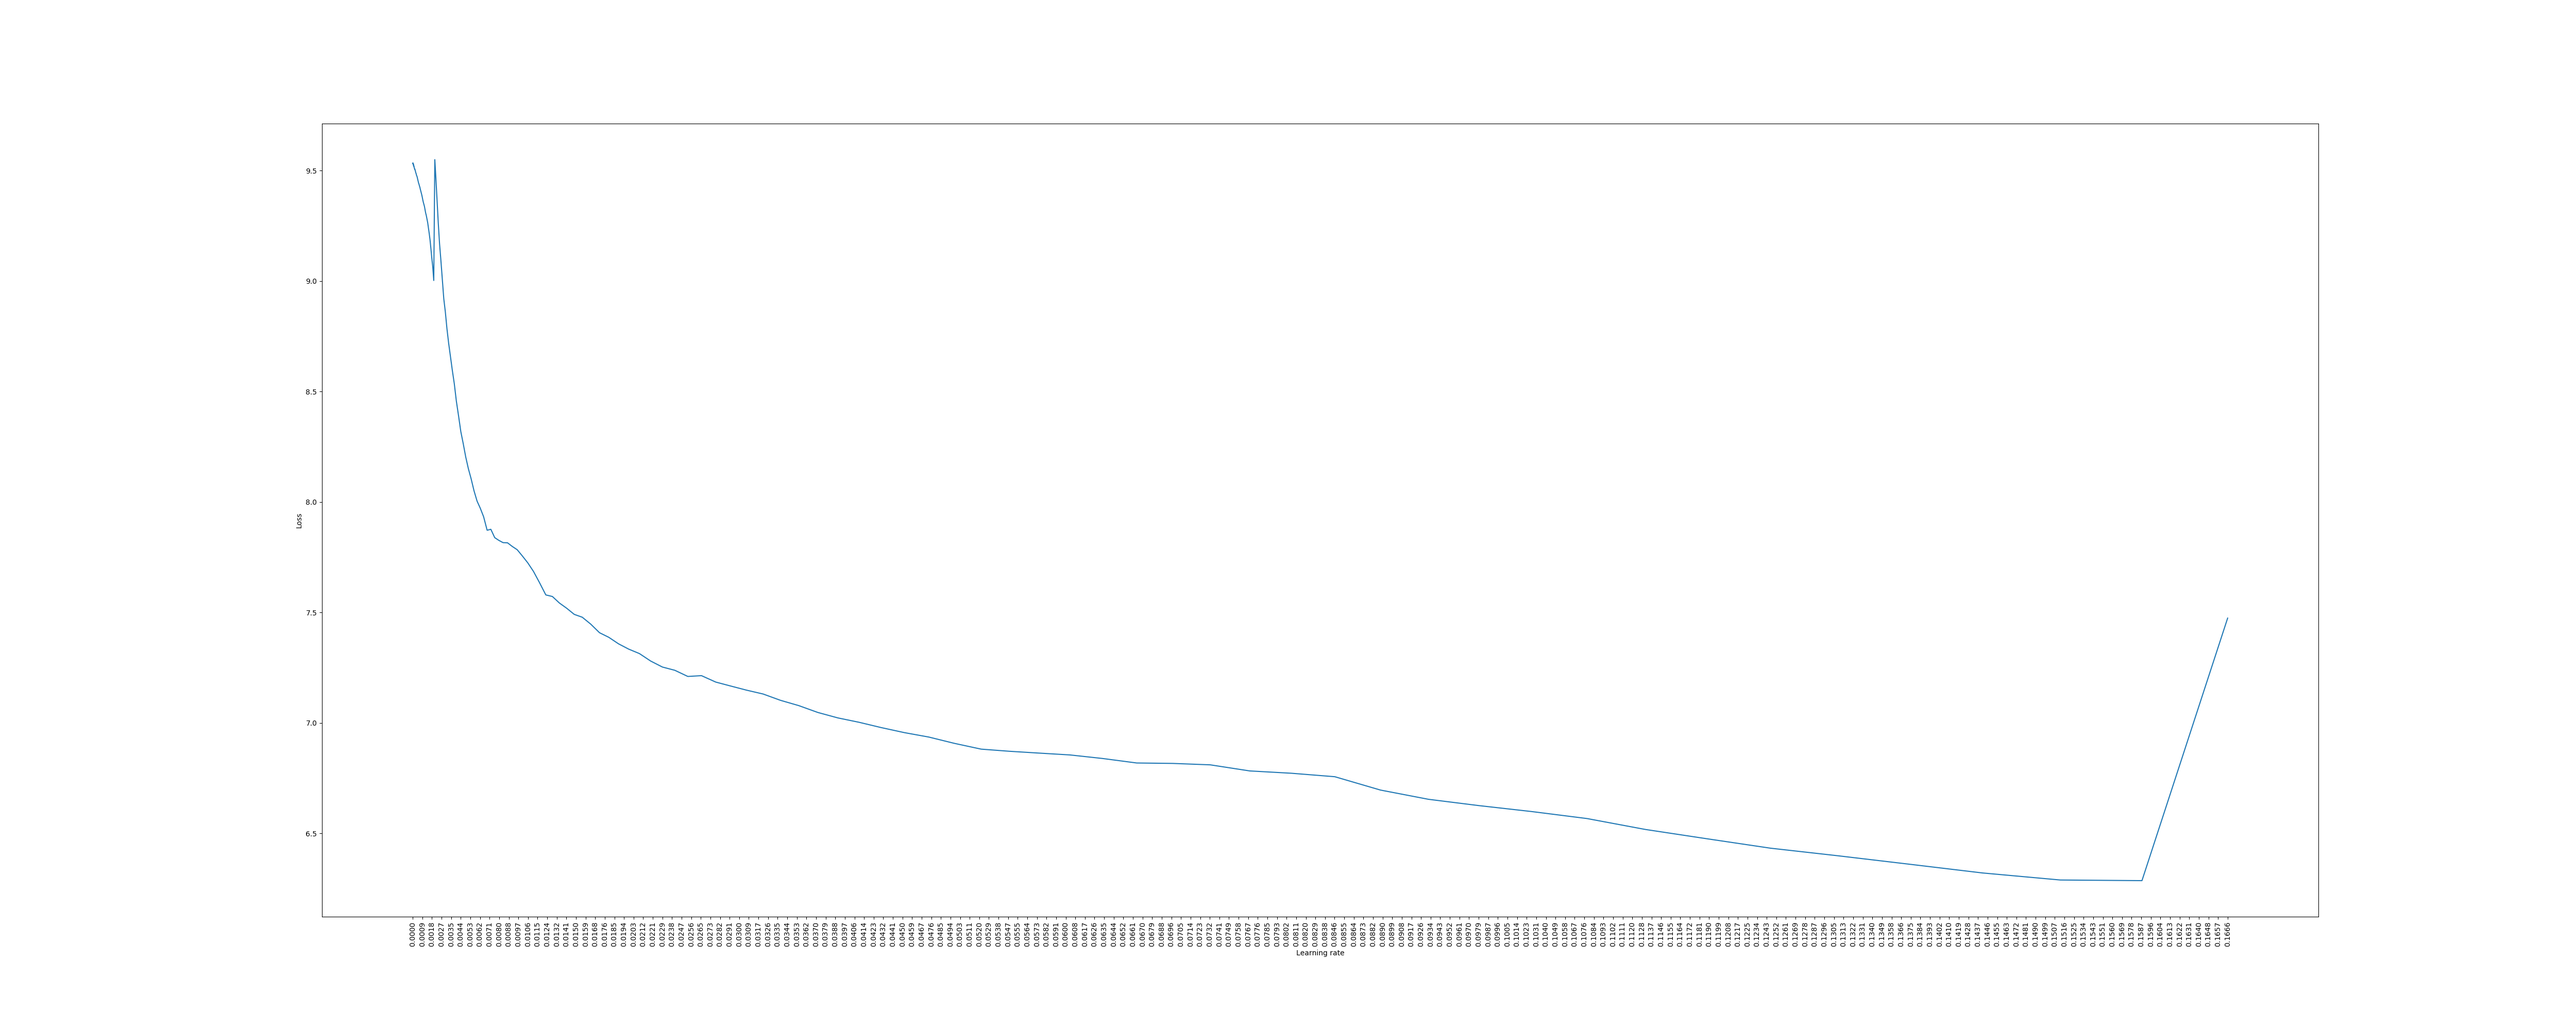
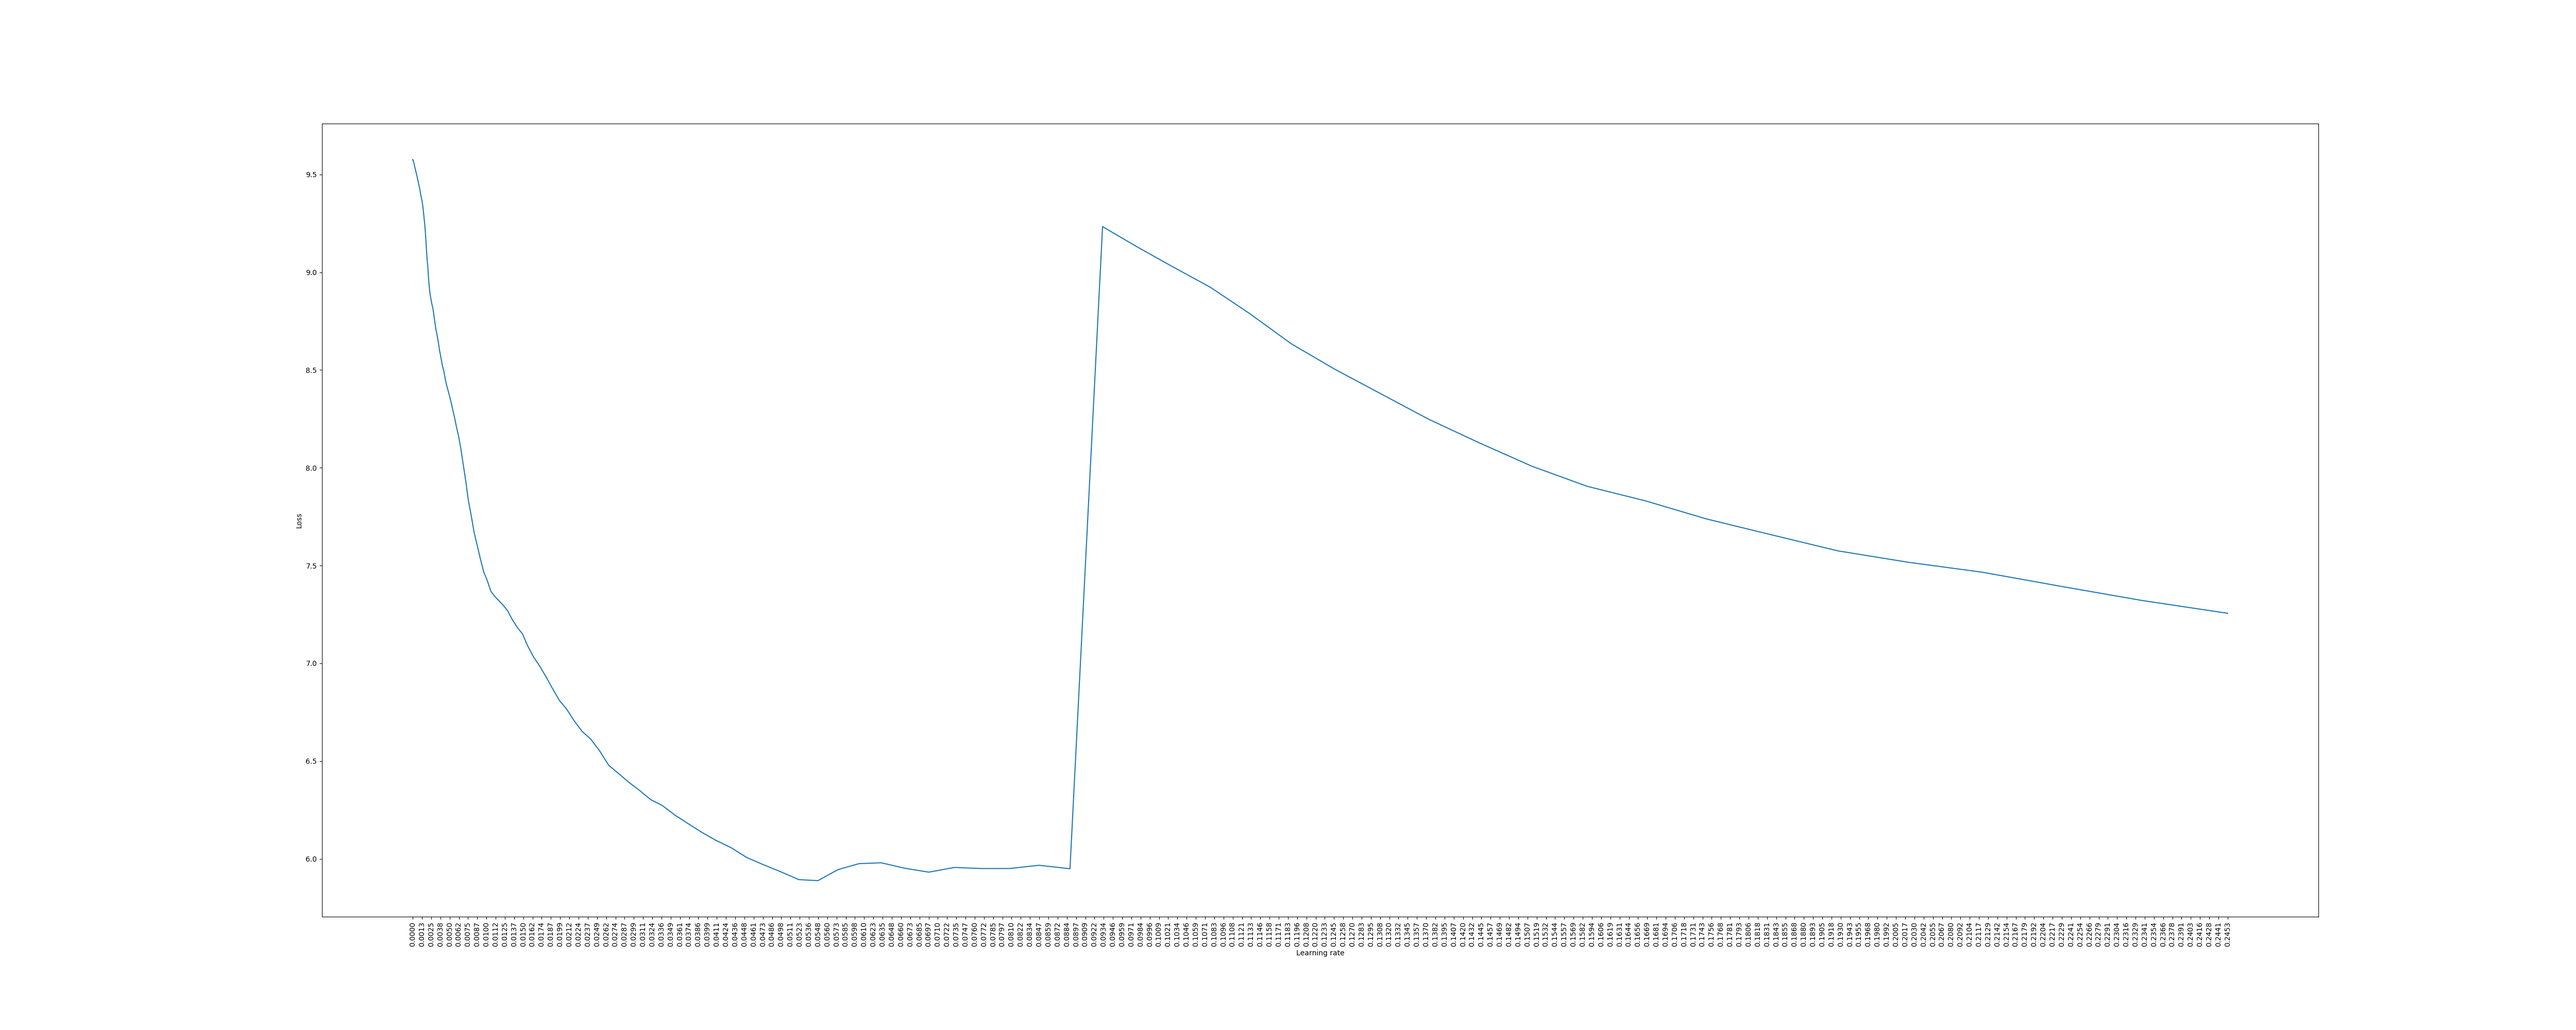
updates

Changed region(s): [[0.156, 0.899, 0.8736, 0.93]]

diff --git a/ttfnet.py b/ttfnet.py
@@ -4,9 +4,10 @@ from detector_utils.pytorch.utils import inject_all_hooks
 inject_all_hooks()
 model = dict(
     type='TTFNet',
-    pretrained=None,
+    pretrained="./convnetlprvehicle.pth",
     backbone=dict(
         type='ConvnetLprVehicle',
+        activation='mish',
         out_indices=(1, 2, 3, 4)),
     neck=None,
     bbox_head=dict(
@@ -39,15 +40,15 @@ test_cfg = dict(
 albu_train_transforms = [
     dict(type='HorizontalFlip'),
     dict(type='ShiftScaleRotate',
-         shift_limit=[-0.05, 0.05],
-         scale_limit=[-0.05, 0.05],
-         rotate_limit=[-10, 10],
+         shift_limit=[-0.01, 0.01],
+         scale_limit=[-0.01, 0.01],
+         rotate_limit=[-5, 5],
          border_mode=0,
          value=[128, 128, 128],
          p=0.5),
     dict(type='RandomBrightnessContrast',
-         brightness_limit=[0.1, 0.3],
-         contrast_limit=[0.1, 0.5],
+         brightness_limit=[-0.2, 0.2],
+         contrast_limit=[-0.2, 0.2],
          p=0.2),
     dict(type='OneOf',
          transforms=[
@@ -55,13 +56,8 @@ albu_train_transforms = [
              dict(type='HueSaturationValue', hue_shift_limit=10, sat_shift_limit=15, val_shift_limit=10, p=1.0)
          ], p=0.2),
     dict(type='JpegCompression', quality_lower=50, quality_upper=100, p=0.2),
-    dict(type='OneOf',
-         transforms=[
-             dict(type='Blur', blur_limit=3, p=1.0),
-             dict(type='MedianBlur', blur_limit=3, p=1.0),
-         ], p=0.2),
     dict(type='CLAHE', p=0.3),
-    dict(type='ToGray', p=0.2),
+    dict(type='ToGray', p=0.1),
     dict(type='Cutout', num_holes=5, max_h_size=5, max_w_size=5, fill_value=[128, 128, 128])
 ]
 width, height = 192, 160
@@ -85,7 +81,7 @@ train_pipeline = [
              format='pascal_voc',
              label_fields=['gt_labels'],
              min_area=0.01,
-             min_visibility=0.01,
+             min_visibility=0.1,
              filter_lost_elements=True),
          update_pad_shape=True,
          keymap={
@@ -98,8 +94,8 @@ train_pipeline = [
              type='BboxParams',
              format='pascal_voc',
              label_fields=['gt_labels'],
-             min_area=0.01,
-             min_visibility=0.01,
+             min_area=0.08,
+             min_visibility=0.1,
              filter_lost_elements=True),
          update_pad_shape=True,
          keymap={
@@ -148,14 +144,14 @@ data = dict(
         composer_config_name='test_composer_config',
         pipeline=test_pipeline))
 # optimizer
-optimizer = dict(type='SGD', lr=0.015, momentum=0.9, weight_decay=0.0004,
+optimizer = dict(type='SGD', lr=0.00001, momentum=0.9, weight_decay=0.0004,
                  paramwise_options=dict(bias_lr_mult=2., bias_decay_mult=0.))
 optimizer_config = dict(grad_clip=dict(max_norm=35, norm_type=2))
 # learning policy
 lr_config = dict(
     policy='torch',
     torch_scheduler='OneCycleLR',
-    max_lr=0.015)
+    max_lr=0.0262)
 checkpoint_config = dict(interval=4)
 # runtime settings
 total_epochs = 70
@@ -170,5 +166,5 @@ log_config = dict(
     interval=30,
     hooks=[
         dict(type='TextLoggerHook'),
-        dict(type='WandbLoggerHook', project='Debug test', config_filename=Path.absolute(Path(__file__)))
+        dict(type='WandbLoggerHook', project='lpr5_vehicle', config_filename=Path.absolute(Path(__file__)))
     ])

diff --git a/mmdet/models/anchor_heads/ttf_head.py b/mmdet/models/anchor_heads/ttf_head.py
@@ -6,7 +6,7 @@ from mmcv.cnn import normal_init, kaiming_init
 
 from mmdet.core import multi_apply, bbox_areas, force_fp32
 from mmdet.core.anchor.guided_anchor_target import calc_region
-from mmdet.models.losses import ct_focal_loss, giou_loss
+from mmdet.models.losses import ct_focal_loss, giou_loss, diou_loss, ciou_loss
 from mmdet.models.utils import (build_norm_layer, bias_init_with_prob, ConvModule, AdvancedRFB)
 from mmdet.ops import ModulatedDeformConvPack
 from mmdet.ops.nms import simple_nms
@@ -495,7 +495,7 @@ class TTFHead(AnchorHead):
                                 self.base_loc + pred_wh[:, [2, 3]]), dim=1).permute(0, 2, 3, 1)
         # (batch, h, w, 4)
         boxes = box_target.permute(0, 2, 3, 1)
-        wh_loss = giou_loss(pred_boxes, boxes, mask, avg_factor=avg_factor) * self.wh_weight
+        wh_loss = diou_loss(pred_boxes, boxes, mask, avg_factor=avg_factor) * self.wh_weight
 
         return hm_loss, wh_loss
 

diff --git a/mmdet/datasets/dssl_dataset.py b/mmdet/datasets/dssl_dataset.py
@@ -40,8 +40,9 @@ class DsslDataset(CustomDataset):
     def load_trassir_composer(self, load_config_filename):
         trassir_load_config = load_module(load_config_filename)
         load_and_dump_config = trassir_load_config.__getattribute__(self._load_and_dump_config_name)
-        self._categories_dict = load_and_dump_config['categories']
-        DsslDataset.CLASSES = tuple(load_and_dump_config['categories'].values())
+        self._categories_dict = load_and_dump_config[0]['categories'] if isinstance(load_and_dump_config, list) \
+            else load_and_dump_config['categories']
+        DsslDataset.CLASSES = tuple(self._categories_dict.values())
         try:
             return create_composer(load_and_dump_configs=load_and_dump_config,
                                    composer_config=trassir_load_config.__getattribute__(self._composer_config_name))

diff --git a/mmdet/models/backbones/simple_convnet.py b/mmdet/models/backbones/simple_convnet.py
@@ -1,8 +1,10 @@
+import logging
 from typing import Sequence, Optional
 
 import torch
 import torch.nn as nn
 import torch.nn.functional as F
+from mmcv.runner import load_checkpoint
 
 from ..registry import BACKBONES
 from ..utils import ConvModule
@@ -60,7 +62,9 @@ class ConvnetLprVehicle(nn.Module):
         ])
 
     def init_weights(self, pretrained=None):
-        pass
+        if isinstance(pretrained, str):
+            logger = logging.getLogger()
+            load_checkpoint(self, pretrained, strict=False, logger=logger)
 
     def forward(self, x):
         x = self._activation(self.conv_1(x))
